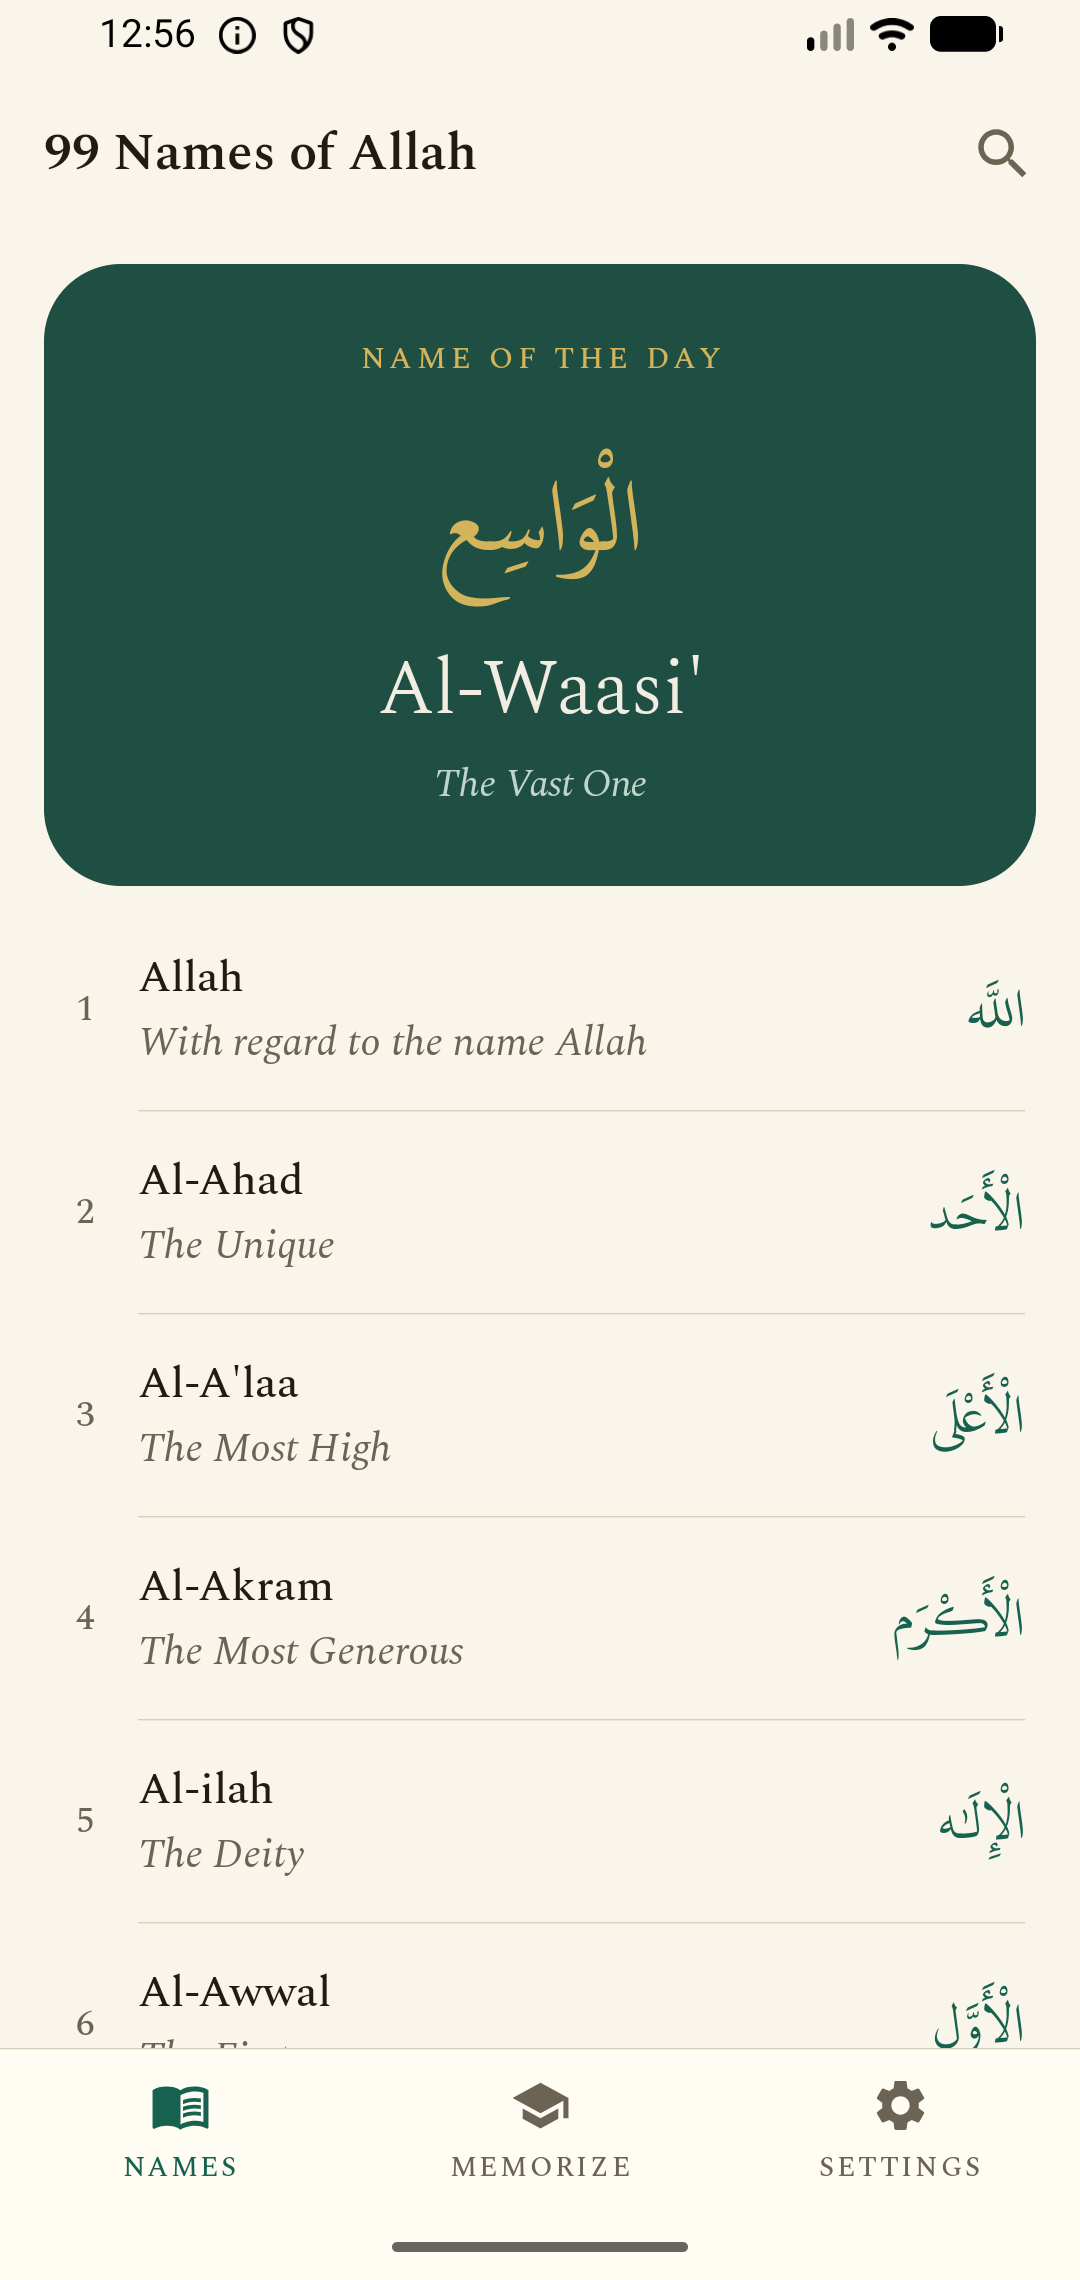
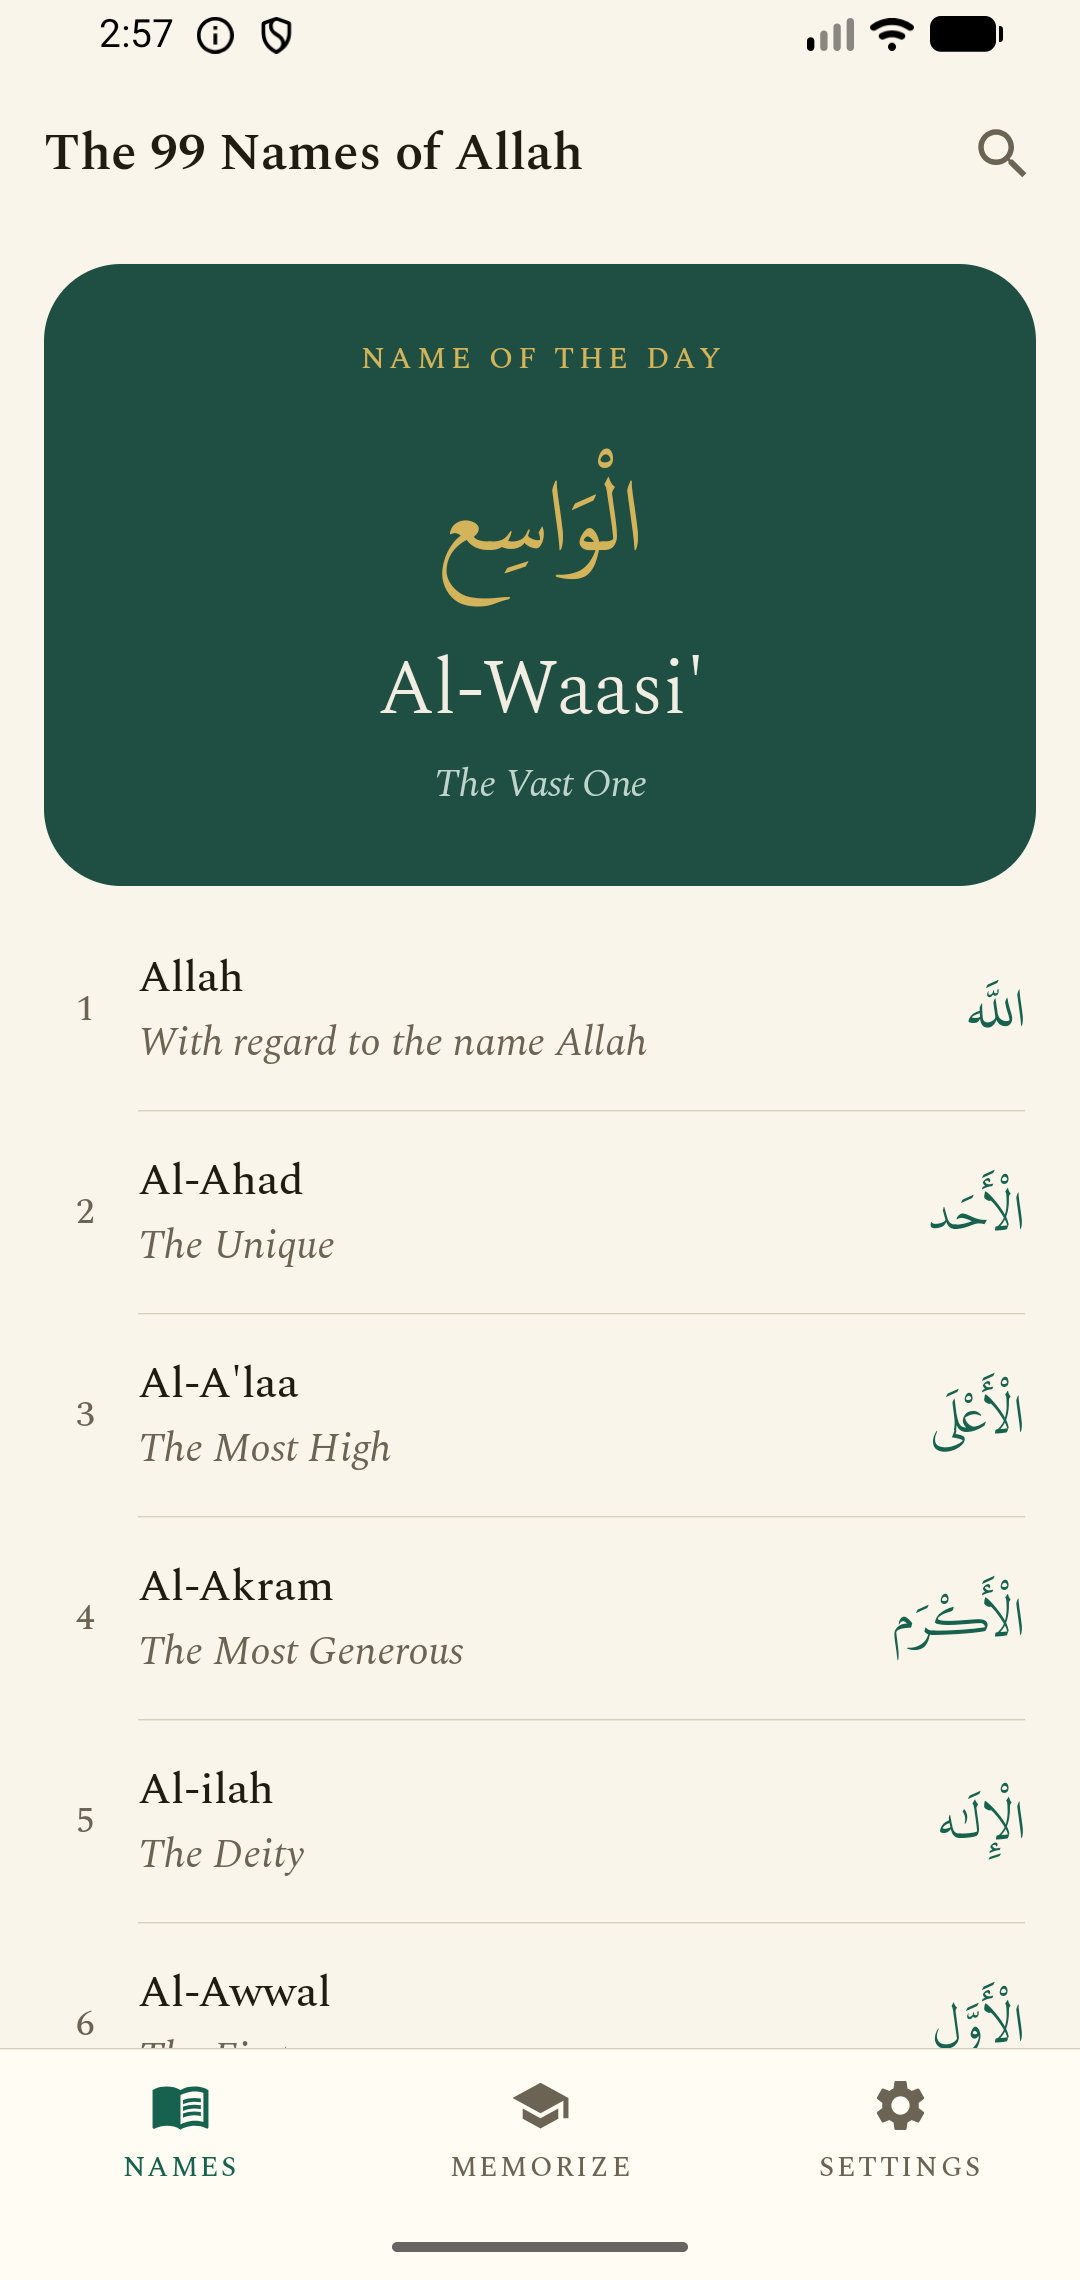
v2.7: the app calls itself The 99 Names of Allah, and eight transliterations follow the source's own convention
Eight transliterations regularised. The source is inconsistent with itself:
it doubles a shadda'd consonant in At-Taw-waab, Al-Wahhaab, Al-Qahhaar and
Al-Mannaan, and writes a long alef "aa" in Ar-Rahmaan and Al-Qahhaar, but not
in these eight. Now Al-Khallaaq, Ar-Razzaaq, Al-Ghaffaar, Al-Fattaah,
Al-Jawwaad, Ash-Shaafee, Al-Muqaddim and Al-Mu'akhkhir. Applied by a script
that refuses to run unless each old spelling appears exactly once, then
re-parses the file to confirm 99 entries survive. Nothing else in the text is
touched, and the README says so plainly.

Al-Moqaddim was the one that also broke search, since every other short damma
in the file is "u" - though v2.6's o/u folding already made it findable either
way, and still does.

The app now calls itself "The 99 Names of Allah" wherever it has room: the
home screen, the share card, and the Play listing. The launcher label stays
"99 Names" - a launcher truncates, and it would cut Allah's name. The two
string resources must never be merged.

The longer name did not fit the old shrink-to-fit floor. It is 10.379 em, so
on a 320dp screen with the in-app slider at 1.4x on top of a 2.0 system font
scale it needs 552dp of the 268dp a top bar leaves after the search button -
a scale of 0.485, under the 0.55 floor. FitText now takes a minScale and the
title passes 0.40.

Verified at that worst case rather than assumed: a 720x1560 display at density
360 is a genuine 320dp-wide screen, and font_scale 2.8 reproduces the largest
[…]

Changed region(s): [[0.0306, 0.0623, 0.55, 0.0934], [0.0917, 0.0, 0.3056, 0.0311]]

diff --git a/app/src/main/java/io/github/muntasimulhaque/names99/ui/home/HomeScreen.kt b/app/src/main/java/io/github/muntasimulhaque/names99/ui/home/HomeScreen.kt
@@ -219,12 +219,17 @@ fun HomeScreen(
 /**
  * The app's full name, set to fit the bar on one line.
  *
- * It must never ellipsize: "99 Names of A…" would cut Allah's name, which is
- * the whole reason the launcher label is the short form. At the largest text
- * sizes (the in-app slider at 1.4x on top of a large system font scale) the
- * full name is wider than the bar, and the bar's height is fixed, so wrapping
- * would clip it. At ordinary sizes nothing moves — the name is less than half
- * the bar's width.
+ * It must never ellipsize: "The 99 Names of A…" would cut Allah's name, which
+ * is the whole reason the launcher label is the short form instead. The bar's
+ * height is fixed, so wrapping would clip it too — it shrinks to fit.
+ *
+ * Material measures a top bar's title with the width left over after the
+ * navigation icon and the actions, so the search button on the right is
+ * already accounted for. The floor is 0.40 rather than the usual 0.55 because
+ * the worst case is real: "The 99 Names of Allah" is 10.379 em, so on a 320dp
+ * screen with the in-app slider at 1.4x on top of a 2.0 system font scale it
+ * needs 552dp of the 268dp available — a scale of 0.485. At ordinary sizes
+ * nothing moves; the name is 197dp of 341dp on a Pixel 4.
  */
 @Composable
 private fun HomeTitle() {
@@ -232,6 +237,7 @@ private fun HomeTitle() {
         text = stringResource(R.string.app_title),
         style = MaterialTheme.typography.headlineSmall,
         color = MaterialTheme.colorScheme.onSurface,
+        minScale = 0.40f,
     )
 }
 
@@ -278,11 +284,16 @@ private fun DailyHeroCard(name: Name, onClick: () -> Unit) {
                 textAlign = TextAlign.Center,
             )
             Spacer(Modifier.height(6.dp))
-            Text(
+            // The name is a proper noun and gets set whole. Left to wrap, a
+            // long one at a large font scale breaks mid-word — "Al-Wa / asi'"
+            // — which is the one thing the app is careful never to do.
+            FitText(
                 text = name.transliteration,
-                style = MaterialTheme.typography.displaySmall,
+                style = MaterialTheme.typography.displaySmall.copy(
+                    textAlign = TextAlign.Center,
+                ),
                 color = HeroText,
-                textAlign = TextAlign.Center,
+                minScale = 0.45f,
             )
             Spacer(Modifier.height(2.dp))
             Text(

diff --git a/app/src/main/java/io/github/muntasimulhaque/names99/ui/theme/components/PageParts.kt b/app/src/main/java/io/github/muntasimulhaque/names99/ui/theme/components/PageParts.kt
@@ -83,9 +83,6 @@ fun BackButton(onBack: () -> Unit) {
     }
 }
 
-/** Below this a label would be smaller than it started — a floor, never a target. */
-private const val MIN_FIT_SCALE = 0.55f
-
 /**
  * Text set to fit the width it is given, stepping its size down instead of
  * wrapping or ellipsizing.
@@ -96,6 +93,10 @@ private const val MIN_FIT_SCALE = 0.55f
  * "MEM…" / "SETTI…". Shrinking still leaves them far larger than the default —
  * it only caps growth at what the space can hold. Measured up front, so there
  * is no first-frame flicker the way a layout-feedback loop would have.
+ *
+ * [minScale] is a floor, never a target; it exists only so a pathological
+ * constraint cannot loop forever. Set it low enough that the text always wins:
+ * a caller that would rather be small than cut should say so.
  */
 @Composable
 fun FitText(
@@ -103,12 +104,13 @@ fun FitText(
     style: TextStyle,
     color: Color,
     modifier: Modifier = Modifier,
+    minScale: Float = 0.55f,
 ) {
     val measurer = rememberTextMeasurer()
     BoxWithConstraints(modifier) {
         val available = constraints.maxWidth
-        val fitted = remember(text, style, available, measurer) {
-            val floor = style.fontSize * MIN_FIT_SCALE
+        val fitted = remember(text, style, available, measurer, minScale) {
+            val floor = style.fontSize * minScale
             var candidate = style
             while (candidate.fontSize > floor &&
                 measurer.measure(text, candidate, softWrap = false).size.width > available

diff --git a/app/src/test/java/io/github/muntasimulhaque/names99/util/SearchFilterTest.kt b/app/src/test/java/io/github/muntasimulhaque/names99/util/SearchFilterTest.kt
@@ -76,15 +76,15 @@ class SearchFilterTest {
         val vowels = listOf(
             Name(25, "الْقَيُّوم", "Al-Qayyoom", "The Sustainer", "The one who sustains all."),
             Name(47, "الْغَفُور", "Al-Ghafoor", "The Oft-Forgiving", "The one who forgives extensively."),
-            Name(94, "الْمُقَدِّم", "Al-Moqaddim", "The Expediter", "The one who brings forward."),
+            Name(52, "الْقُدُّوس", "Al-Quddoos", "The Most Pure", "The one free of every fault."),
             Name(77, "الْوَلِيّ", "Al-Walee", "The Protector", "The one who protects."),
         )
         assertEquals(listOf(vowels[0]), SearchFilter.filter(vowels, "qayyum"))
         assertEquals(listOf(vowels[1]), SearchFilter.filter(vowels, "ghafur"))
-        assertEquals(listOf(vowels[2]), SearchFilter.filter(vowels, "muqaddim"))
+        assertEquals(listOf(vowels[2]), SearchFilter.filter(vowels, "quddus"))
         assertEquals(listOf(vowels[3]), SearchFilter.filter(vowels, "wali"))
         // The spellings the app itself uses must keep working.
         assertEquals(listOf(vowels[0]), SearchFilter.filter(vowels, "qayyoom"))
-        assertEquals(listOf(vowels[2]), SearchFilter.filter(vowels, "moqaddim"))
+        assertEquals(listOf(vowels[2]), SearchFilter.filter(vowels, "quddoos"))
     }
 }

diff --git a/app/src/main/java/io/github/muntasimulhaque/names99/MainActivity.kt b/app/src/main/java/io/github/muntasimulhaque/names99/MainActivity.kt
@@ -290,7 +290,11 @@ private fun QuietBottomBar(navController: NavHostController, currentRoute: Strin
                         // in-app reading scale can't clip it. System font
                         // scaling does still apply, and at 2.0 "MEMORIZE"
                         // needs 135dp of a 116dp tab — so it fits itself
-                        // rather than ellipsizing to "MEM…".
+                        // rather than ellipsizing to "MEM…". The floor is low
+                        // because a tab is only a third of the screen: on a
+                        // 320dp phone at 2.8x it takes 0.54 to fit, and at the
+                        // floor the label overflows into its neighbour rather
+                        // than stopping politely.
                         FitText(
                             text = stringResource(item.labelRes).uppercase(),
                             style = MaterialTheme.typography.labelSmall.copy(
@@ -299,6 +303,7 @@ private fun QuietBottomBar(navController: NavHostController, currentRoute: Strin
                             ),
                             color = tint,
                             modifier = Modifier.padding(horizontal = 2.dp),
+                            minScale = 0.40f,
                         )
                     }
                 }

diff --git a/app/src/main/java/io/github/muntasimulhaque/names99/util/SearchFilter.kt b/app/src/main/java/io/github/muntasimulhaque/names99/util/SearchFilter.kt
@@ -14,8 +14,8 @@ object SearchFilter {
      *
      * So "rahman", "ar rahman" and "a'laa" all find "Ar-Rahmaan", and — because
      * the same long vowel is written "oo"/"u" and "ee"/"i" by different sources
-     * — "Muqaddim" finds "Al-Moqaddim", "Qayyum" finds "Al-Qayyoom", "Ghafur"
-     * finds "Al-Ghafoor" and "Wali" finds "Al-Walee". Readers arrive knowing
+     * — "Qayyum" finds "Al-Qayyoom", "Ghafur" finds "Al-Ghafoor", "Quddus"
+     * finds "Al-Quddoos" and "Wali" finds "Al-Walee". Readers arrive knowing
      * these names from elsewhere; they should not have to guess our spelling.
      */
     private fun latinKey(s: String): String {

diff --git a/README.md b/README.md
@@ -1,4 +1,4 @@
-# 99 Names of Allah
+# The 99 Names of Allah
 
 A free, open-source, native Android app for reading and memorizing Al-Asma ul-Husna — the 99 Names of Allah — with Arabic, transliteration, and meanings.
 
@@ -56,6 +56,12 @@ Single-module Kotlin app. Jetpack Compose + Material 3 with a small design syste
 Uthaymeen (Rahimahullah) as presented in the book named above. It is included
 here for the benefit of anyone seeking to learn the names, with attribution
 intact — the MIT grant covers the software around it, not that text.
+
+One deliberate departure: the source's transliteration is inconsistent with
+itself in eight places — a doubled consonant left single, a long vowel written
+short — and those eight have been regularised to the convention the source
+follows everywhere else (#28, #32, #44, #48, #80, #87, #94, #95). Nothing else
+in the text has been altered.
 
 **Bundled fonts** are under their own terms: Spectral under the SIL Open Font
 License, and KFGQPC Uthmanic Script HAFS distributed free by the King Fahd

diff --git a/PRIVACY.md b/PRIVACY.md
@@ -1,4 +1,4 @@
-# Privacy Policy — 99 Names of Allah
+# Privacy Policy — The 99 Names of Allah
 
 Effective date: 31 July 2026
 
